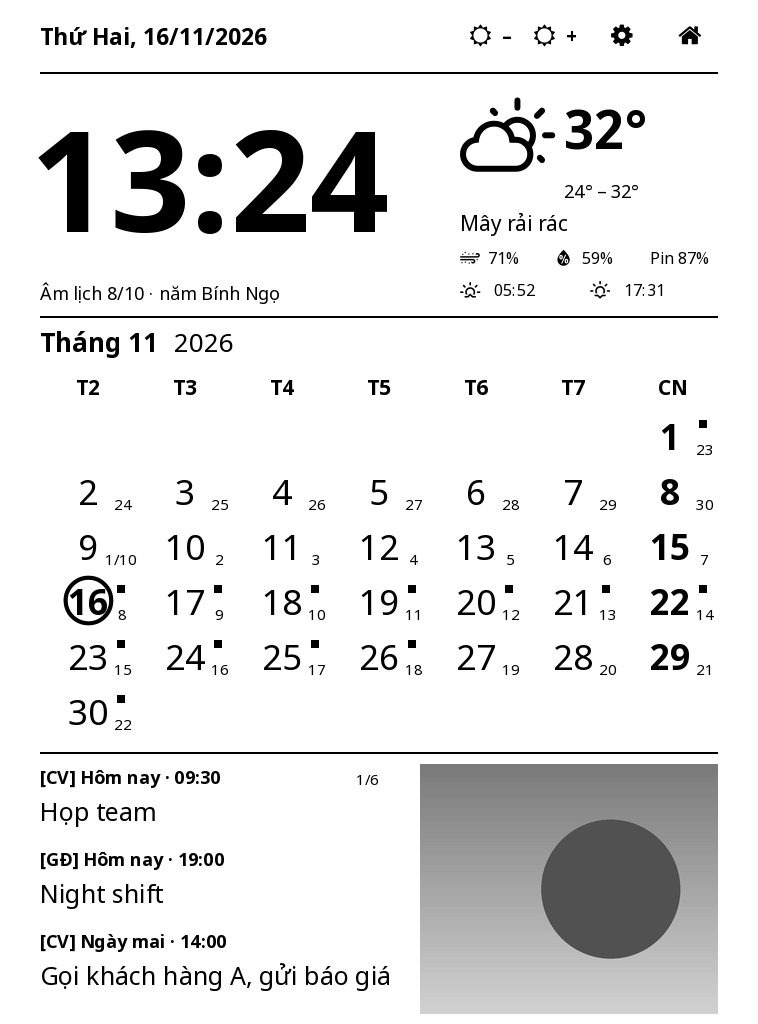
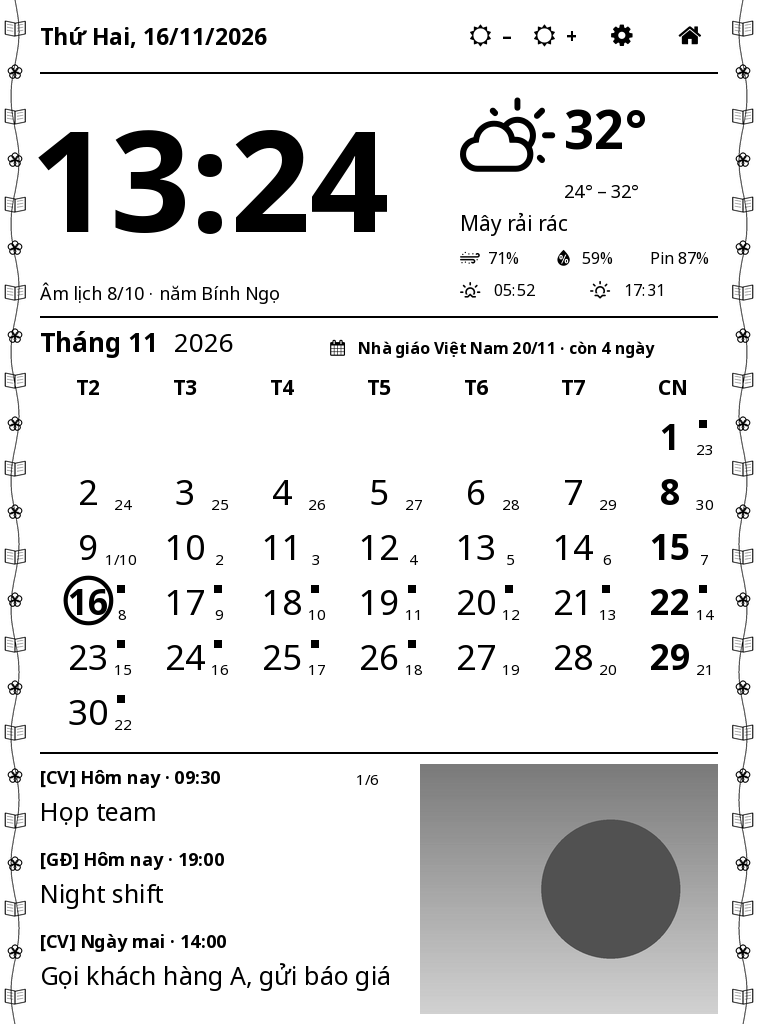
Holiday ornaments: themed side borders (Tết, Trung thu, 20/11, Noel, national days, ...) + greeting line with countdown; Settings: ornament mode
Claude-Session: https://claude.ai/code/session_01V5xiiJ9vFpYkxgipGrfd5U

diff --git a/tools/make_ornaments.py b/tools/make_ornaments.py
@@ -1,0 +1,219 @@
+#!/usr/bin/env python3
+"""Sinh dải hoa văn trang trí hai bên màn hình cho từng dịp lễ (PNG thang xám cho eips).
+
+    python3 tools/make_ornaments.py kindle/dashboard/ornaments
+
+Mỗi chủ đề tạo 4 file: <chude>_doc_l.png, <chude>_doc_r.png (26x1024), <chude>_ngang_l.png, <chude>_ngang_r.png (26x758).
+"""
+import math
+import os
+import sys
+
+from PIL import Image, ImageDraw
+
+OUT = sys.argv[1] if len(sys.argv) > 1 else "kindle/dashboard/ornaments"
+SW = 26           # bề rộng dải
+SS = 4            # vẽ lớn rồi thu nhỏ cho mịn
+os.makedirs(OUT, exist_ok=True)
+
+
+class Pen:
+    def __init__(self, h, gray=0):
+        self.img = Image.new("L", (SW * SS, h * SS), 255)
+        self.d = ImageDraw.Draw(self.img)
+        self.g = gray
+
+    def S(self, v):
+        return v * SS
+
+    def line(self, pts, w=1.2, g=None):
+        self.d.line([(self.S(x), self.S(y)) for x, y in pts], fill=self.g if g is None else g, width=max(1, int(w * SS)), joint="curve")
+
+    def circle(self, cx, cy, r, w=1.2, fill=None, g=None):
+        c = self.g if g is None else g
+        self.d.ellipse((self.S(cx - r), self.S(cy - r), self.S(cx + r), self.S(cy + r)),
+                       outline=c, width=max(1, int(w * SS)), fill=(c if fill else None))
+
+    def poly(self, pts, w=1.2, fill=False, g=None):
+        c = self.g if g is None else g
+        P = [(self.S(x), self.S(y)) for x, y in pts]
+        if fill:
+            self.d.polygon(P, fill=c)
+        else:
+            self.d.line(P + [P[0]], fill=c, width=max(1, int(w * SS)), joint="curve")
+
+    def done(self, h):
+        return self.img.resize((SW, h), Image.LANCZOS)
+
+
+# ---------------- hoạ tiết (tâm ở cx=13, cy) ----------------
+C = SW / 2
+
+
+def flower5(p, cy, r=4.2, filled=False):
+    for k in range(5):
+        a = math.radians(k * 72 - 90)
+        p.circle(C + math.cos(a) * r * 1.15, cy + math.sin(a) * r * 1.15, r, w=1.1, fill=filled)
+    p.circle(C, cy, 1.6, fill=True)
+    for k in range(5):
+        a = math.radians(k * 72 - 54)
+        p.line([(C, cy), (C + math.cos(a) * 2.8, cy + math.sin(a) * 2.8)], w=0.6)
+
+
+def bud(p, cy):
+    p.circle(C, cy, 2.6, w=1.1)
+    p.line([(C, cy + 2.6), (C, cy + 5)], w=0.9)
+
+
+def heart(p, cy, s=1.0, fill=False):
+    pts = []
+    for t in range(0, 360, 10):
+        a = math.radians(t)
+        x = 16 * math.sin(a) ** 3
+        y = -(13 * math.cos(a) - 5 * math.cos(2 * a) - 2 * math.cos(3 * a) - math.cos(4 * a))
+        pts.append((C + x * 0.55 * s, cy + y * 0.55 * s))
+    p.poly(pts, w=1.2, fill=fill)
+
+
+def star(p, cy, r=8, fill=False):
+    pts = []
+    for k in range(10):
+        rr = r if k % 2 == 0 else r * 0.42
+        a = math.radians(k * 36 - 90)
+        pts.append((C + math.cos(a) * rr, cy + math.sin(a) * rr))
+    p.poly(pts, w=1.1, fill=fill)
+
+
+def diamond(p, cy, r=7):
+    p.poly([(C, cy - r), (C + r * 0.75, cy), (C, cy + r), (C - r * 0.75, cy)], w=1.1)
+    p.poly([(C, cy - r * 0.45), (C + r * 0.33, cy), (C, cy + r * 0.45), (C - r * 0.33, cy)], w=0.8)
+
+
+def dot(p, cy, r=1.3):
+    p.circle(C, cy, r, fill=True)
+
+
+def lantern(p, cy):
+    p.line([(C, cy - 13), (C, cy - 9)], w=0.8)
+    p.d.rounded_rectangle((p.S(C - 7), p.S(cy - 8), p.S(C + 7), p.S(cy + 7)), radius=p.S(6), outline=p.g, width=int(1.3 * SS))
+    for dx in (-3.5, 0, 3.5):
+        p.line([(C + dx, cy - 7.5), (C + dx * 1.2, cy), (C + dx, cy + 6.5)], w=0.6)
+    p.line([(C - 4, cy - 8), (C + 4, cy - 8)], w=1.6)
+    p.line([(C - 4, cy + 7), (C + 4, cy + 7)], w=1.6)
+    for dx in (-1.5, 0, 1.5):
+        p.line([(C + dx, cy + 7), (C + dx * 1.4, cy + 12)], w=0.6)
+
+
+def moon(p, cy, r=7):
+    p.circle(C, cy, r, fill=True)
+    p.circle(C + 3.6, cy - 2.4, r * 0.85, fill=True, g=255)
+
+
+def snowflake(p, cy, r=8):
+    for k in range(6):
+        a = math.radians(k * 60)
+        x2, y2 = C + math.cos(a) * r, cy + math.sin(a) * r
+        p.line([(C, cy), (x2, y2)], w=1.0)
+        for s in (0.55,):
+            bx, by = C + math.cos(a) * r * s, cy + math.sin(a) * r * s
+            for da in (-40, 40):
+                b = math.radians(k * 60 + da)
+                p.line([(bx, by), (bx + math.cos(b) * 3, by + math.sin(b) * 3)], w=0.8)
+
+
+def tree(p, cy):
+    for i, (w, y) in enumerate(((5, -9), (7.5, -4), (10, 1))):
+        p.poly([(C, cy + y - 4), (C + w, cy + y + 4), (C - w, cy + y + 4)], w=1.1)
+    p.line([(C, cy + 5), (C, cy + 9)], w=1.6)
+
+
+def lotus(p, cy):
+    def petal(ax, ay, ang, L=10, Wd=3.6):
+        a = math.radians(ang)
+        tip = (ax + math.cos(a) * L, ay + math.sin(a) * L)
+        nx, ny = -math.sin(a), math.cos(a)
+        mid = (ax + math.cos(a) * L * 0.5, ay + math.sin(a) * L * 0.5)
+        p.poly([(ax, ay), (mid[0] + nx * Wd, mid[1] + ny * Wd), tip, (mid[0] - nx * Wd, mid[1] - ny * Wd)], w=1.0)
+    base = cy + 6
+    for ang in (-90, -125, -55, -155, -25):
+        petal(C, base, ang, L=11 if ang == -90 else 9)
+    p.line([(C - 9, base + 1), (C + 9, base + 1)], w=1.0)
+
+
+def book(p, cy):
+    p.poly([(C, cy - 5), (C - 10, cy - 7), (C - 10, cy + 6), (C, cy + 8)], w=1.1)
+    p.poly([(C, cy - 5), (C + 10, cy - 7), (C + 10, cy + 6), (C, cy + 8)], w=1.1)
+    for k in (-2, 1, 4):
+        p.line([(C - 8, cy + k - 2), (C - 2, cy + k - 1)], w=0.5)
+        p.line([(C + 2, cy + k - 1), (C + 8, cy + k - 2)], w=0.5)
+
+
+def balloon(p, cy):
+    p.d.ellipse((p.S(C - 6), p.S(cy - 10), p.S(C + 6), p.S(cy + 4)), outline=p.g, width=int(1.2 * SS))
+    p.poly([(C, cy + 4), (C - 1.5, cy + 6), (C + 1.5, cy + 6)], fill=True)
+    p.line([(C, cy + 6), (C + 2, cy + 9), (C - 1, cy + 12)], w=0.6)
+
+
+def firework(p, cy, r=9):
+    for k in range(12):
+        a = math.radians(k * 30)
+        p.line([(C + math.cos(a) * r * 0.35, cy + math.sin(a) * r * 0.35), (C + math.cos(a) * r, cy + math.sin(a) * r)], w=0.8)
+        p.circle(C + math.cos(a) * (r + 1.6), cy + math.sin(a) * (r + 1.6), 0.7, fill=True)
+    dot(p, cy, 1.4)
+
+
+def dongson(p, cy, r=10):
+    p.circle(C, cy, r, w=1.0)
+    p.circle(C, cy, r * 0.7, w=0.7)
+    pts = []
+    for k in range(24):
+        rr = r * 0.55 if k % 2 == 0 else r * 0.18
+        a = math.radians(k * 15 - 90)
+        pts.append((C + math.cos(a) * rr, cy + math.sin(a) * rr))
+    p.poly(pts, fill=True)
+    for k in range(16):
+        a = math.radians(k * 22.5)
+        p.circle(C + math.cos(a) * r * 0.85, cy + math.sin(a) * r * 0.85, 0.55, fill=True)
+
+
+def vine(p, h, amp=4, period=128, w=0.8):
+    p.line([(C + math.sin(y / period * 2 * math.pi) * amp, y) for y in range(0, h + 1, 2)], w=w)
+
+
+# ---------------- chủ đề ----------------
+THEMES = {
+    "macdinh":   dict(gray=120, seq=[lambda p, y: diamond(p, y), lambda p, y: dot(p, y)], step=36, rail=True),
+    "tet":       dict(gray=0, seq=[lambda p, y: flower5(p, y), lambda p, y: bud(p, y), lambda p, y: flower5(p, y, r=3.4, filled=True), lambda p, y: bud(p, y)], step=40, vine=True),
+    "duonglich": dict(gray=0, seq=[lambda p, y: firework(p, y), lambda p, y: star(p, y, r=5, fill=True)], step=46),
+    "tinhyeu":   dict(gray=0, seq=[lambda p, y: heart(p, y), lambda p, y: flower5(p, y, r=3), lambda p, y: heart(p, y, s=0.7, fill=True), lambda p, y: flower5(p, y, r=3)], step=40, vine=True),
+    "quockhanh": dict(gray=0, seq=[lambda p, y: star(p, y, r=9, fill=True), lambda p, y: star(p, y, r=5)], step=40, rail=True),
+    "thieunhi":  dict(gray=0, seq=[lambda p, y: balloon(p, y), lambda p, y: star(p, y, r=5)], step=44),
+    "sen":       dict(gray=0, seq=[lambda p, y: lotus(p, y), lambda p, y: dot(p, y)], step=44, rail=True),
+    "trungthu":  dict(gray=0, seq=[lambda p, y: lantern(p, y), lambda p, y: star(p, y, r=5), lambda p, y: moon(p, y), lambda p, y: star(p, y, r=5)], step=44),
+    "nhagiao":   dict(gray=0, seq=[lambda p, y: book(p, y), lambda p, y: flower5(p, y, r=3.4)], step=44, vine=True),
+    "noel":      dict(gray=0, seq=[lambda p, y: snowflake(p, y), lambda p, y: tree(p, y), lambda p, y: star(p, y, r=5, fill=True)], step=42),
+    "dongson":   dict(gray=0, seq=[lambda p, y: dongson(p, y), lambda p, y: diamond(p, y, r=5)], step=40, rail=True),
+}
+
+
+def strip(name, h, mirror=False):
+    t = THEMES[name]
+    p = Pen(h, t["gray"])
+    if t.get("rail"):
+        p.line([(3, 0), (3, h)], w=0.8)
+        p.line([(SW - 3, 0), (SW - 3, h)], w=0.8)
+    if t.get("vine"):
+        vine(p, h)
+    y, i = t["step"] / 2 + 6, 0
+    while y < h - 10:
+        t["seq"][i % len(t["seq"])](p, y)
+        y += t["step"]; i += 1
+    img = p.done(h)
+    return img.transpose(Image.FLIP_LEFT_RIGHT) if mirror else img
+
+
+for name in THEMES:
+    for tag, h in (("doc", 1024), ("ngang", 758)):
+        strip(name, h).save(os.path.join(OUT, f"{name}_{tag}_l.png"), optimize=True)
+        strip(name, h, mirror=True).save(os.path.join(OUT, f"{name}_{tag}_r.png"), optimize=True)
+print(f"Xong {len(THEMES)} chủ đề -> {OUT}")

diff --git a/README.md b/README.md
@@ -91,6 +91,7 @@ KUAL **không chạy** trên bộ jailbreak "hdnext", nên dashboard là các
 - **Thời tiết** có biểu tượng (phân biệt ngày/đêm), nhiệt độ thấp/cao, khả năng mưa, độ ẩm, giờ mặt trời mọc/lặn.
 - **Lịch tháng** có số to và **ngày âm lịch** trong từng ô (mùng 1 hiện "1/tháng"). Hôm nay đánh dấu bằng vòng tròn, khung vuông, gạch chân hoặc tròn đen. Chấm đen là ngày có sự kiện, Chủ Nhật in đậm.
 - **Sự kiện** từ nhiều lịch, có nhãn `[CV]`, `[GĐ]`.
+- **Hoa văn trang trí** hai bên màn hình, đổi theo dịp lễ: hoa mai (Tết), pháo hoa (Tết Dương lịch), trái tim (14/2, 8/3, 20/10), ngôi sao (30/4, 1/5, 2/9), bóng bay (1/6), hoa sen (Phật Đản, Vu Lan), đèn lồng và trăng (Trung thu), sách và hoa (20/11), bông tuyết và cây thông (Giáng sinh), trống đồng (Giỗ Tổ). Ngày thường là hoa văn hình thoi màu xám. Trước mỗi dịp, hàng tiêu đề lịch có dòng chúc mừng kiểu "Nhà giáo Việt Nam 20/11 · còn 4 ngày". Họa tiết sinh bằng `python3 tools/make_ornaments.py kindle/dashboard/ornaments`.
 - **Ảnh** tự đổi theo chu kỳ, hoặc cố định một ảnh chọn từ danh sách.
 - Mỗi phút chỉ vẽ lại vùng đồng hồ. Cả màn hình được vẽ lại mỗi 15 phút, khi có chạm, hoặc khi có dữ liệu mới.
 
@@ -108,7 +109,7 @@ KUAL **không chạy** trên bộ jailbreak "hdnext", nên dashboard là các
 
 ### Trang Cài đặt (chạm vào một dòng để đổi)
 Kiểu giờ, kiểu ngày, âm lịch, kiểu đánh dấu hôm nay, tuần bắt đầu Thứ Hai/Chủ Nhật,
-biểu tượng thời tiết, **hướng màn hình** (Dọc / Lộn ngược để sạc ở phía trên / Ngang trái / Ngang phải), ảnh tự đổi/cố định, chu kỳ đổi ảnh, chu kỳ
+biểu tượng thời tiết, **hoa văn trang trí** (theo ngày lễ / thường / tắt), **hướng màn hình** (Dọc / Lộn ngược để sạc ở phía trên / Ngang trái / Ngang phải), ảnh tự đổi/cố định, chu kỳ đổi ảnh, chu kỳ
 cập nhật giờ, đèn ban ngày/ban đêm, đảo màu ban đêm, số ngày sự kiện,
 **Chọn ảnh từ danh sách…**. Các lựa chọn được lưu vào `dashboard/settings.conf`.
 
